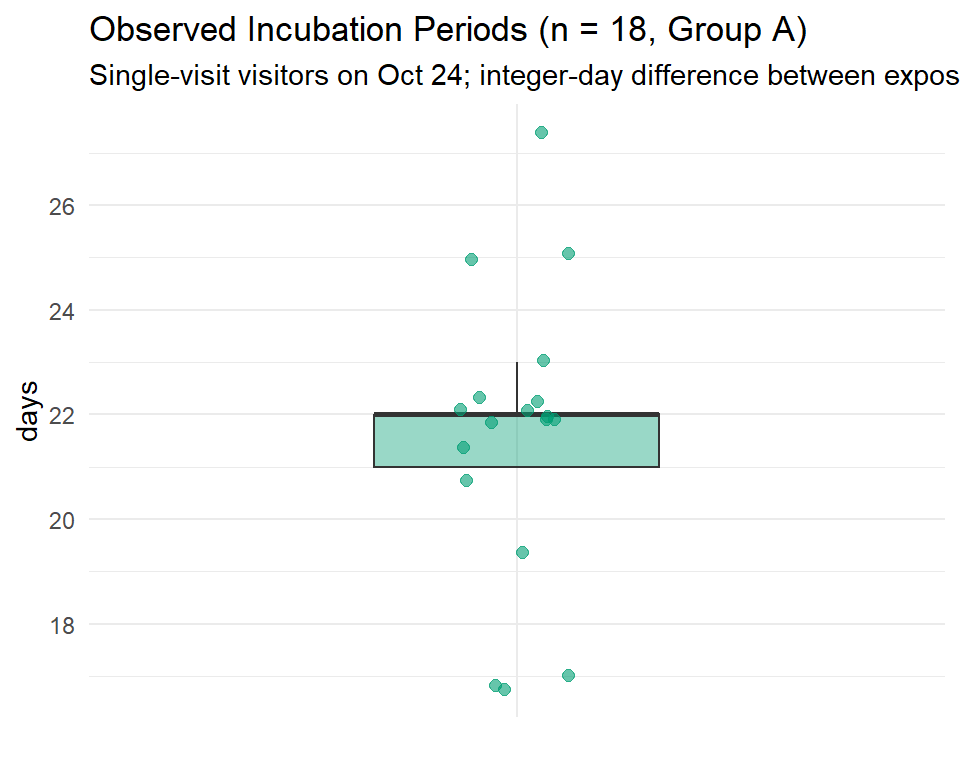
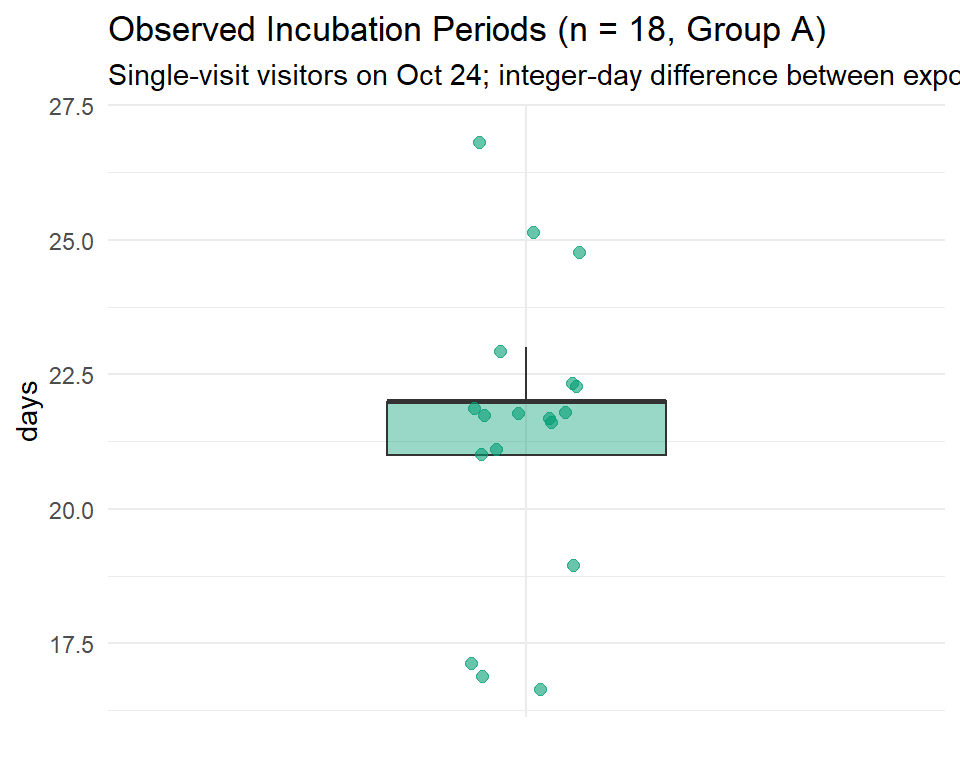
Fix grammar in results.Rmd description

diff --git a/docs/results.html b/docs/results.html
@@ -367,8 +367,8 @@ heatmap.</p></li>
 <li><p><strong><a href="Bongkrekic_Acid_2024.html">Bongkrekic Acid Food
 Poisoning (2024)</a></strong> — Early-stage outbreak forecasting with
 GMITS (Grey Model for Irregular Time Series), validated on synthetic
-data and applied to a real point-source outbreak. This the main
-intention of researching limited data prediction.</p></li>
+data and applied to a real point-source outbreak. This is the main
+intention behind researching limited-data prediction.</p></li>
 <li><p><strong><a href="Listeria_2011.html">2011 Listeria
 Outbreak</a></strong> — GMITS applied to a sporadic foodborne outbreak,
 comparing forecast accuracy across input sizes (n = 4/5/6) and testing